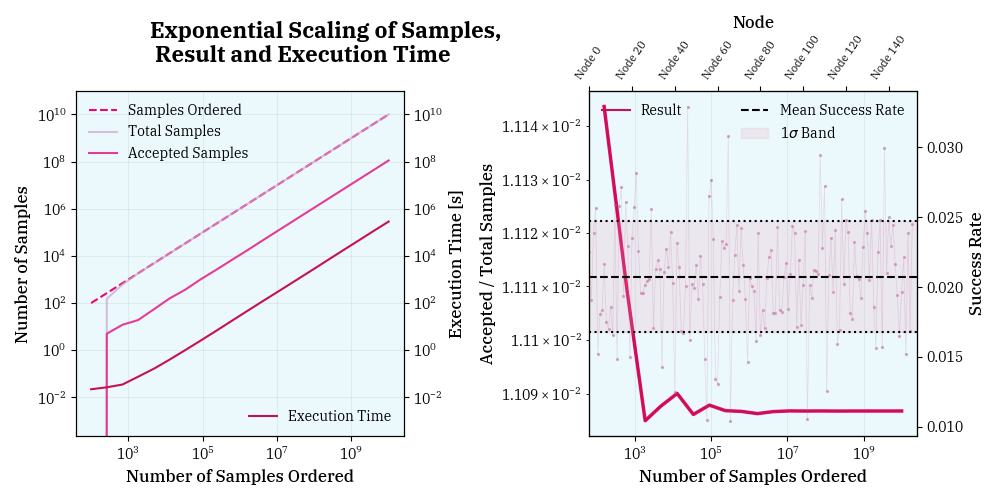
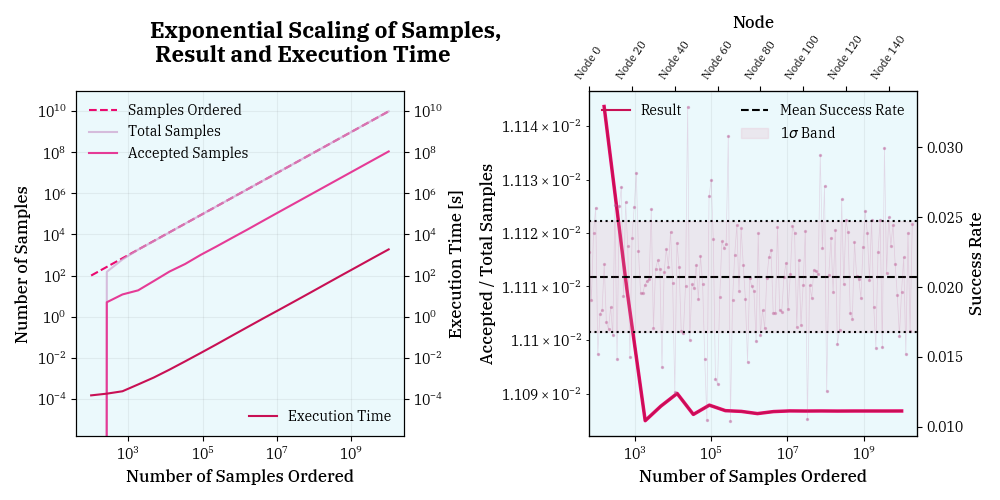
fix: :bug: plot tweaks and radial script corrections

diff --git a/StarShapes/angular_radial.py b/StarShapes/angular_radial.py
@@ -26,8 +26,8 @@ def condition(pairs):
         x, y, z = pair
         check = np.sqrt(np.abs(x)) + np.sqrt(np.abs(y)) + np.sqrt(np.abs(z)) <= 1
         if check:
-            np.sqrt(x**2 + y**2 + z**2) * np.sqrt(x**2 + y**2 + z**2)**P_DEF * v_tangential(x, y, z)
-        results.append(np.sqrt(np.abs(x)) + np.sqrt(np.abs(y)) + np.sqrt(np.abs(z)) <= 1)
+            integrand = np.sqrt(x**2 + y**2 + z**2) * np.sqrt(x**2 + y**2 + z**2)**P_DEF * v_tangential(x, y, z)
+        results.append(integrand)
     return np.array(results)
 
 # --- Plot 1: Scaling with P ---
@@ -43,11 +43,10 @@ if True:
         if nn.rank == 0:
             print(f"Running {i + 1} of {len(P_range)}")
         n_in, n_tot, t_exec, res = nn.run()
-        if nn.rank == 0:
-            N_dispersion.append(n_tot)
-            result_dispersion.append(n_in)
-            integral_dispersion.append(res)
-            t_exec_dispersion.append(t_exec)
+        N_dispersion.append(n_tot)
+        result_dispersion.append(n_in)
+        integral_dispersion.append(res)
+        t_exec_dispersion.append(t_exec)
 
     if nn.rank == 0:
         if not os.path.exists("./StarShapes/Results"):

diff --git a/StarShapes/radial_plot.py b/StarShapes/radial_plot.py
@@ -1,0 +1,34 @@
+"""
+Combined plot for mass from radial density and angular momentum.
+"""
+import numpy as np
+import matplotlib.pyplot as plt
+import matplotlib as mpl
+import palettable as pl
+import cmasher as cmr
+
+# Load data
+P_range = np.linspace(0, 5, 100)
+with np.load("./StarShapes/Results/P_scaling_radial.npz") as data:
+    P_range = data["N_range"]
+    N_dispersion = data["N_dispersion"]
+    t_exec_dispersion = data["t_exec_dispersion"]
+    result_dispersion = data["result_dispersion"]
+    integral_dispersion = data["integral_dispersion"]
+
+with np.load("./StarShapes/Results/P_scaling_angular_radial.npz") as data:
+    P_range = data["N_range"]
+    N_dispersion_angular = data["N_dispersion"]
+    t_exec_dispersion_angular = data["t_exec_dispersion"]
+    result_dispersion_angular = data["result_dispersion"]
+    integral_dispersion_angular = data["integral_dispersion"]
+
+# Plot
+fig, ax = plt.subplots(1, 2, figsize=(10, 5))
+
+# Sum the dispersion across nodes
+print(integral_dispersion_angular)
+ax[0].imshow(, aspect="auto", origin="lower")
+
+plt.show()
+

diff --git a/StarShapes/mass_radial.py b/StarShapes/mass_radial.py
@@ -26,8 +26,8 @@ def condition(pairs):
         x, y, z = pair
         check = np.sqrt(np.abs(x)) + np.sqrt(np.abs(y)) + np.sqrt(np.abs(z)) <= 1
         if check:
-            1 * np.sqrt(x**2 + y**2 + z**2)**P_DEF
-        results.append(np.sqrt(np.abs(x)) + np.sqrt(np.abs(y)) + np.sqrt(np.abs(z)) <= 1)
+            integrand = 1 * np.sqrt(x**2 + y**2 + z**2)**P_DEF
+        results.append(integrand)
     return np.array(results)
 
 # --- Plot 1: Scaling with P ---
@@ -43,11 +43,10 @@ if True:
         if nn.rank == 0:
             print(f"Running {i + 1} of {len(P_range)}")
         n_in, n_tot, t_exec, res = nn.run()
-        if nn.rank == 0:
-            N_dispersion.append(n_tot)
-            result_dispersion.append(n_in)
-            integral_dispersion.append(res)
-            t_exec_dispersion.append(t_exec)
+        N_dispersion.append(n_tot)
+        result_dispersion.append(n_in)
+        integral_dispersion.append(res)
+        t_exec_dispersion.append(t_exec)
 
     if nn.rank == 0:
         if not os.path.exists("./StarShapes/Results"):

diff --git a/StarShapes/angular_const.py b/StarShapes/angular_const.py
@@ -85,7 +85,7 @@ fig, ax = plt.subplots(1, 2, figsize=(10, 5))
 # Sum the dispersion across nodes
 N_ = np.sum(N_dispersion, axis=1)
 result = np.sum(result_dispersion, axis=1)
-t_exec = np.sum(t_exec_dispersion, axis=1)
+t_exec = np.average(t_exec_dispersion, axis=1)
 
 # Plot 0
 ax[0].plot(N_range, N_range, label="Samples Ordered", ls="--", color="#eb096f")

diff --git a/StarShapes/mass_const.py b/StarShapes/mass_const.py
@@ -75,7 +75,7 @@ fig, ax = plt.subplots(1, 2, figsize=(10, 5))
 # Sum the dispersion across nodes
 N_ = np.sum(N_dispersion, axis=1)
 result = np.sum(result_dispersion, axis=1)
-t_exec = np.sum(t_exec_dispersion, axis=1)
+t_exec = np.average(t_exec_dispersion, axis=1)
 
 # Plot 0
 ax[0].plot(N_range, N_range, label="Samples Ordered", ls="--", color="#eb096f")

diff --git a/StarShapes/node_scaling.py b/StarShapes/node_scaling.py
@@ -17,7 +17,7 @@ N_dispersion = []  # Slightly deviates due to floor division when chunking
 result_dispersion = []
 t_exec_dispersion = []
 # Gather data
-if True:
+if False:
     node_range = np.arange(1, 152)
     # Result dispersion across nodes
     result_dispersion = []
